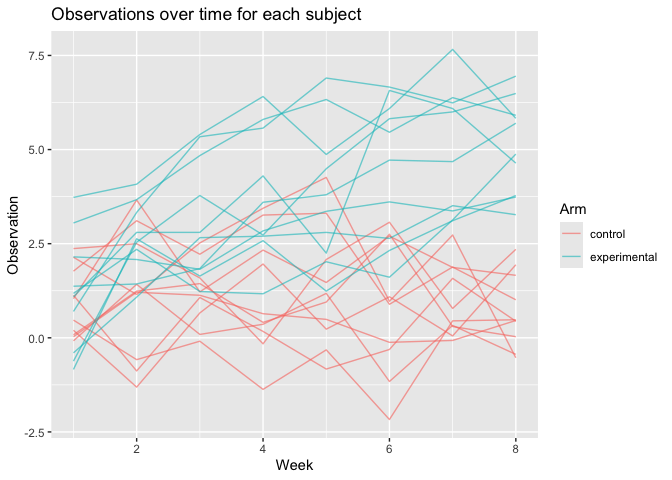
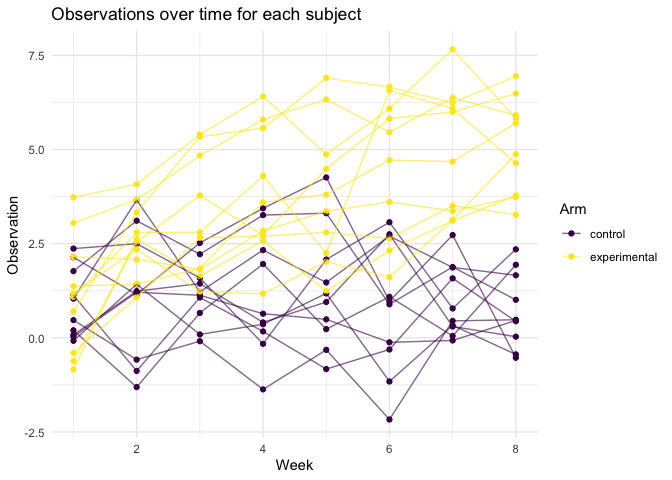
adding points to graph

diff --git a/p8105_hw5_sr4354.md b/p8105_hw5_sr4354.md
@@ -59,13 +59,16 @@ colored by arm:
 ``` r
 study_df |>
   ggplot(aes(x = week, y = observation, group = subject_id, color = arm)) +
+  geom_point() +
   geom_line(alpha = 0.6) +
+  scale_color_viridis_d() +
   labs(
     x = "Week",
     y = "Observation",
     color = "Arm",
     title = "Observations over time for each subject"
-  )
+  ) +
+  theme_minimal()
 ```
 
 ![](p8105_hw5_sr4354_files/figure-gfm/unnamed-chunk-2-1.png)<!-- -->
@@ -267,11 +270,12 @@ compare_df |>
 
 ![](p8105_hw5_sr4354_files/figure-gfm/unnamed-chunk-11-1.png)<!-- -->
 
-The average estimate across all tests is generally close to the true μ,
-but the average estimate among rejected tests is higher than the true μ
-when μ is small. This is because, when the effect is small, only samples
-with unusually high estimates are likely to reach statistical
-significance. As μ increases, power rises and more samples are rejected,
-so the rejected group looks more like the full set of samples, and the
-two averages converge by μ = 5. The sample average among rejected tests
-is therefore not a good estimate of μ when power is low.
+The average estimate across all tests is essentially equal to the true μ
+at every value, but among rejected tests it is noticeably higher when μ
+is small (for example, 2.21 vs. 1 at μ = 1). This is because, when the
+effect is small, only samples with unusually high estimates are likely
+to reach statistical significance. As μ increases, power rises and more
+samples are rejected, so the rejected group looks more like the full set
+of samples, and the two averages converge by μ = 5. The sample average
+among rejected tests is therefore not a good estimate of μ when power is
+low.
